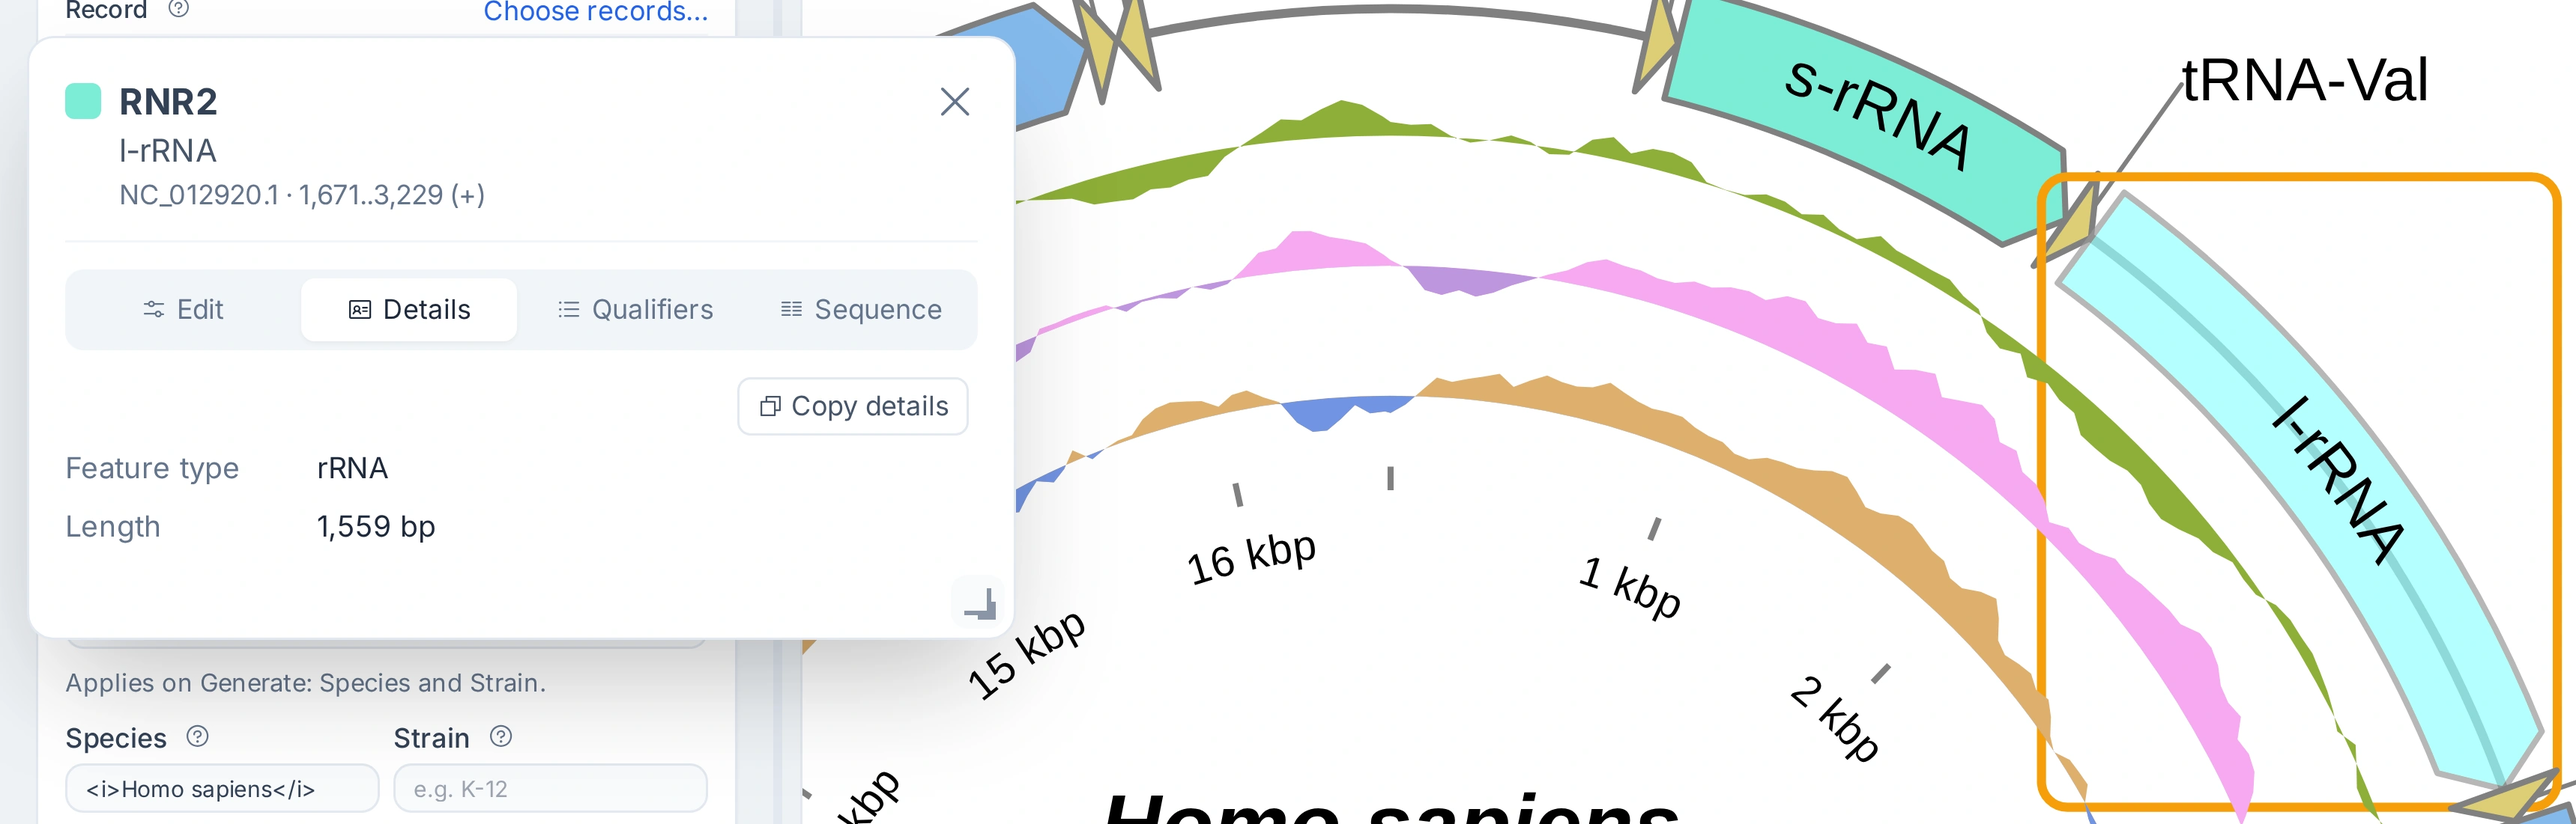
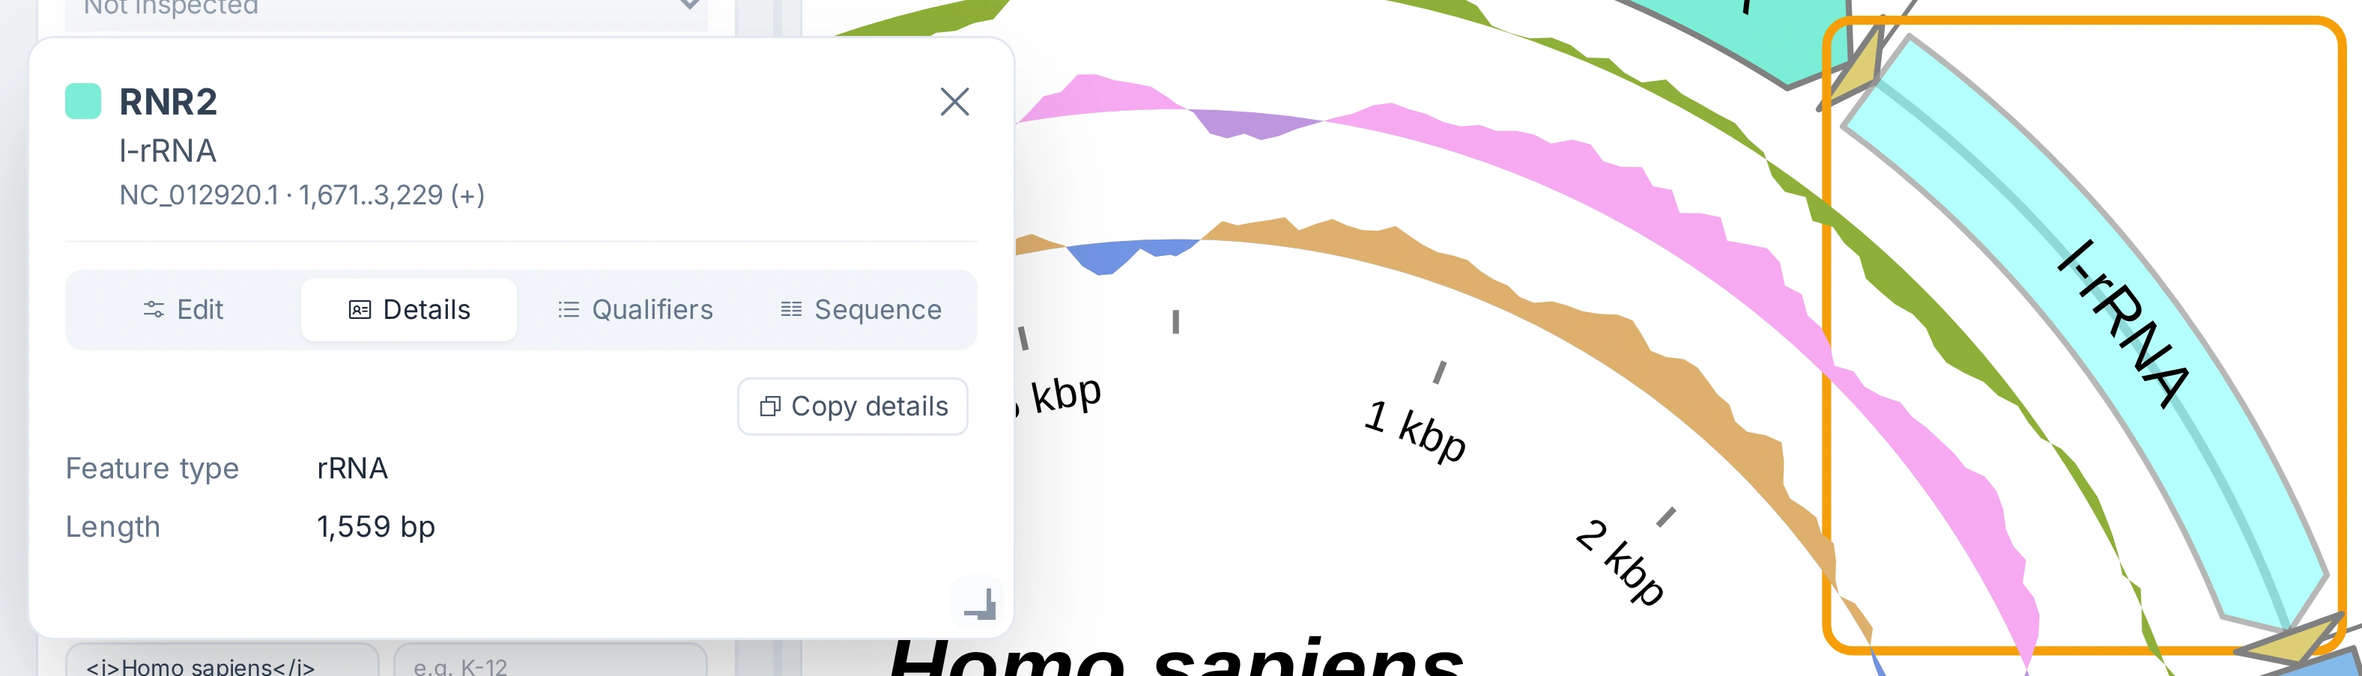
Place the RNR2 feature before the click in the AT skew tutorial capture
Step 10 of the HmmtDNA_ATskew Gallery tutorial zoomed the preview with a fixed
pan that left the l-rRNA feature outside the visible preview, so the click
scrolled the preview first. Where that scroll ended differed between runs
(three outcomes on this branch and on dev), the capture's geometry wait
accepted only some of them, and one full capture run timed out there. The
recipe now pans the feature to a fixed place, as the BGC popup recipes do, so
the click scrolls nothing. The image is recaptured; two runs are
byte-identical.

diff --git a/docs/internal/WEB_GALLERY_OPERATION_SCREENSHOT_REGISTER.md b/docs/internal/WEB_GALLERY_OPERATION_SCREENSHOT_REGISTER.md
@@ -17,6 +17,7 @@ Recaptured at the tool default scale; an image is kept only when it visibly diff
 | `BGC0000708-BGC0000713` | `manual-07-01-align-og6.webp` | Recapture; recipe corrected | neoU popup with gene and product in the header, **Similarity group**, **Align…**, **Review alignment options…**; the recipe sets the popup's own width to 500 px (the size state it wrote before is not on `window.__GBDRAW_APP__`, so the popup stayed 720 px wide and left the window), crops from the whole popup header, and stops when the popup does not fit the window | Accepted at 1926x858: close button, tabs, and **Align…** inside the crop |
 | `BGC0000708-BGC0000713` | `manual-12-01-feature-popup.webp` | Recapture; recipe corrected | **Qualifiers** tab as a name and value list (no row borders): the recipe marks each name and the value beside it and scrolls the name to the top | Accepted |
 | `BGC0000708-BGC0000713` | `manual-11-01-orthogroup-popup.webp` | Keep | Similarity-group popup unchanged apart from sub-percent noise | Committed bytes kept |
+| `HmmtDNA_ATskew` | `manual-10-01-feature-popup.webp` | Recapture; recipe corrected | RNR2 **Details** popup left of the highlighted l-rRNA; the recipe pans the feature to a fixed place in the preview before the click, where it left the place to the scroll that the click does on a feature outside the visible preview (three different outcomes seen, one capture run timed out) | Accepted at 3153x903; two runs byte-identical |
 | `HmmtDNA_ATskew` | `post-02-01-legend-editor.webp` | Recapture; recipe added | Exact Session; **Editor** drawer open on **Legend**; list scrolled to the AT skew rows; crop from the drawer header to the last row | Accepted; the AT skew swatches show the GC skew colors (Product bug, see the handoff) |
 
 The capture tool's `resetSettings` action confirms the in-app **Reset all settings?** dialog; the tool no longer expects a browser dialog.
